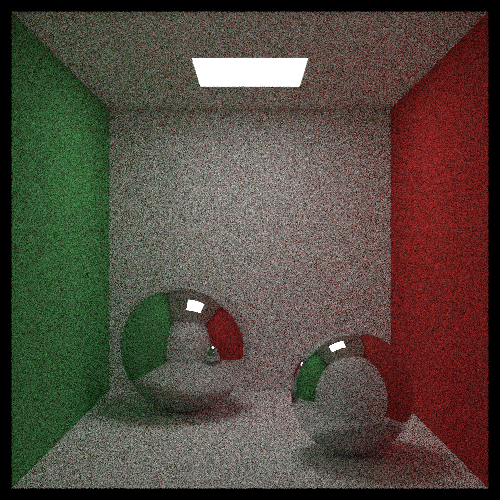
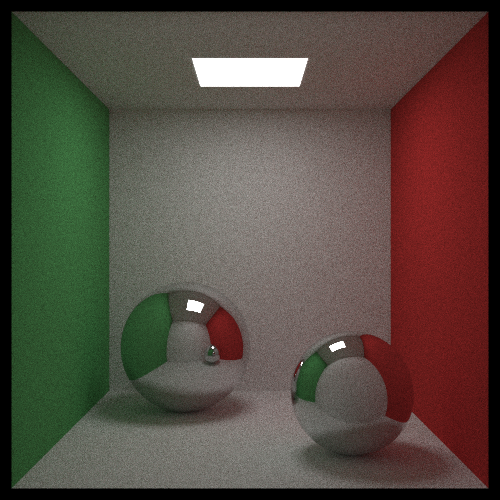
feat: add base Cornell Box template, refactor derived configs to share room geometry
- Extract getCornellBoxBaseRenderConfig() with walls/light/materials only
- Refactor getCornellBoxRenderConfig() and getCornellBoxMirrorSpheresRenderConfig()
  to call the base and spread-add their object-specific geometrics
- Add cornell-box-base template entry with thumbnail
- Update all template thumbnails to higher quality

Changed region(s): [[0.03, 0.0, 0.99, 0.99]]

diff --git a/ui/src/utils/render/templates.ts b/ui/src/utils/render/templates.ts
@@ -13,6 +13,14 @@ export type Template = {
 
 export const TEMPLATES: Template[] = [
   {
+    id: 'cornell-box-base',
+    name: 'Cornell Box — Empty',
+    description:
+      'Empty Cornell Box scene with colored walls and a ceiling light — ready to customize',
+    thumbnail: '/templates/cornell-box-empty.png',
+    config: getCornellBoxBaseRenderConfig(),
+  },
+  {
     id: 'cornell-box',
     name: 'Cornell Box',
     description: 'Classic Cornell Box scene with two boxes, colored walls, and a ceiling light',
@@ -20,17 +28,17 @@ export const TEMPLATES: Template[] = [
     config: getCornellBoxRenderConfig(),
   },
   {
-    id: 'empty',
-    name: 'Empty',
-    description: 'Blank canvas with default parameters — build your scene from scratch',
-    config: getEmptyRenderConfig(),
-  },
-  {
     id: 'cornell-box-mirror-spheres',
     name: 'Cornell Box — Mirror Spheres',
     description: 'Cornell Box scene with two mirror-reflective spheres instead of boxes',
     thumbnail: '/templates/cornell-box-mirror-spheres.png',
     config: getCornellBoxMirrorSpheresRenderConfig(),
+  },
+  {
+    id: 'empty',
+    name: 'Empty',
+    description: 'Blank canvas with default parameters — build your scene from scratch',
+    config: getEmptyRenderConfig(),
   },
 ];
 
@@ -76,9 +84,9 @@ export function getEmptyRenderConfig(): NormalizedRenderConfig {
   });
 }
 
-export function getCornellBoxRenderConfig(): NormalizedRenderConfig {
+export function getCornellBoxBaseRenderConfig(): NormalizedRenderConfig {
   return withDefaultResources({
-    name: 'Cornell Box',
+    name: 'Cornell Box — Empty',
     parameters: {
       image_dimensions: [500, 500],
       tile_dimensions: [1, 1],
@@ -93,8 +101,6 @@ export function getCornellBoxRenderConfig(): NormalizedRenderConfig {
     scenes: {
       'Cornell Box': {
         geometrics: [
-          'Far Left Box',
-          'Near Right Box',
           'Left Wall',
           'Right Wall',
           'Floor',
@@ -174,32 +180,6 @@ export function getCornellBoxRenderConfig(): NormalizedRenderConfig {
         v: [0.0, 0.0, 3.0],
         is_culled: false,
         material: 'White Light',
-      },
-      'Far Left Box': {
-        type: 'rotate_y',
-        geometric: 'Far Left Box - Unrotated',
-        degrees: 15.0,
-        around: [3.5, 0.0, -6.5],
-      },
-      'Far Left Box - Unrotated': {
-        type: 'box',
-        a: [2.0, 0.0, -5.0],
-        b: [5.0, 6.0, -8.0],
-        is_culled: false,
-        material: 'White',
-      },
-      'Near Right Box': {
-        type: 'rotate_y',
-        geometric: 'Near Right Box - Unrotated',
-        degrees: 342.0,
-        around: [6.5, 0.0, -3.5],
-      },
-      'Near Right Box - Unrotated': {
-        type: 'box',
-        a: [5.0, 0.0, -2.0],
-        b: [8.0, 3.0, -5.0],
-        is_culled: false,
-        material: 'White',
       },
     },
     materials: {
@@ -249,105 +229,66 @@ export function getCornellBoxRenderConfig(): NormalizedRenderConfig {
   });
 }
 
-export function getCornellBoxMirrorSpheresRenderConfig(): NormalizedRenderConfig {
-  return withDefaultResources({
-    name: 'Cornell Box — Mirror Spheres',
-    parameters: {
-      image_dimensions: [500, 500],
-      tile_dimensions: [1, 1],
-      gamma_correction: 2.0,
-      samples_per_checkpoint: 10,
-      total_checkpoints: 100,
-      saved_checkpoint_limit: 1,
-      max_bounces: 50,
-      use_scaling_truncation: true,
-    },
-    active_scene: 'Cornell Box',
+export function getCornellBoxRenderConfig(): NormalizedRenderConfig {
+  const base = getCornellBoxBaseRenderConfig();
+  const scenes = base.scenes!;
+  return {
+    ...base,
+    name: 'Cornell Box',
     scenes: {
+      ...scenes,
       'Cornell Box': {
-        geometrics: [
-          'Far Left Sphere',
-          'Near Right Sphere',
-          'Left Wall',
-          'Right Wall',
-          'Floor',
-          'Ceiling',
-          'Ceiling Light',
-          'Far Wall',
-          'Near Wall',
-        ],
-        use_bvh: true,
-        camera: 'Camera 1',
-        background_color: [0.0, 0.0, 0.0],
-      },
-    },
-    cameras: {
-      'Camera 1': {
-        vertical_field_of_view_degrees: 40.0,
-        eye_location: [5.0, 5.0, 14.4144],
-        target_location: [5.0, 5.0, 0.0],
-        view_up: [0.0, 1.0, 0.0],
-        defocus_angle_degrees: 0.0,
-        focus_distance: 'eye_to_target',
+        ...scenes['Cornell Box'],
+        geometrics: ['Far Left Box', 'Near Right Box', ...scenes['Cornell Box'].geometrics],
       },
     },
     geometrics: {
-      'Left Wall': {
-        type: 'parallelogram',
-        lower_left: [0.0, 0.0, 0.0],
-        u: [0.0, 0.0, -10.0],
-        v: [0.0, 10.0, 0.0],
-        is_culled: false,
-        material: 'Green',
+      ...base.geometrics,
+      'Far Left Box': {
+        type: 'rotate_y',
+        geometric: 'Far Left Box - Unrotated',
+        degrees: 15.0,
+        around: [3.5, 0.0, -6.5],
       },
-      'Right Wall': {
-        type: 'parallelogram',
-        lower_left: [10.0, 0.0, -10.0],
-        u: [0.0, 0.0, 10.0],
-        v: [0.0, 10.0, 0.0],
-        is_culled: false,
-        material: 'Red',
-      },
-      Floor: {
-        type: 'parallelogram',
-        lower_left: [0.0, 0.0, 0.0],
-        u: [10.0, 0.0, 0.0],
-        v: [0.0, 0.0, -10.0],
+      'Far Left Box - Unrotated': {
+        type: 'box',
+        a: [2.0, 0.0, -5.0],
+        b: [5.0, 6.0, -8.0],
         is_culled: false,
         material: 'White',
       },
-      Ceiling: {
-        type: 'parallelogram',
-        lower_left: [0.0, 10.0, -10.0],
-        u: [10.0, 0.0, 0.0],
-        v: [0.0, 0.0, 10.0],
+      'Near Right Box': {
+        type: 'rotate_y',
+        geometric: 'Near Right Box - Unrotated',
+        degrees: 342.0,
+        around: [6.5, 0.0, -3.5],
+      },
+      'Near Right Box - Unrotated': {
+        type: 'box',
+        a: [5.0, 0.0, -2.0],
+        b: [8.0, 3.0, -5.0],
         is_culled: false,
         material: 'White',
       },
-      'Far Wall': {
-        type: 'parallelogram',
-        lower_left: [0.0, 0.0, -10.0],
-        u: [10.0, 0.0, 0.0],
-        v: [0.0, 10.0, 0.0],
-        is_culled: false,
-        material: 'White',
+    },
+  };
+}
+
+export function getCornellBoxMirrorSpheresRenderConfig(): NormalizedRenderConfig {
+  const base = getCornellBoxBaseRenderConfig();
+  const scenes = base.scenes!;
+  return {
+    ...base,
+    name: 'Cornell Box — Mirror Spheres',
+    scenes: {
+      ...scenes,
+      'Cornell Box': {
+        ...scenes['Cornell Box'],
+        geometrics: ['Far Left Sphere', 'Near Right Sphere', ...scenes['Cornell Box'].geometrics],
       },
-      'Near Wall': {
-        type: 'parallelogram',
-        lower_left: [10.0, 0.0, 0.0],
-        u: [-10.0, 0.0, 0.0],
-        v: [0.0, 10.0, 0.0],
-        is_culled: true,
-        material: 'White',
-      },
-      'Ceiling Light': {
-        type: 'parallelogram',
-        lower_left: [3.5, 9.99, -6.5],
-        u: [3.0, 0.0, 0.0],
-        v: [0.0, 0.0, 3.0],
-        is_culled: false,
-        material: 'White Light',
-      },
+    },
+    geometrics: {
+      ...base.geometrics,
       'Far Left Sphere': {
         type: 'sphere',
         center: [3.0, 2.0, -7.0],
@@ -362,26 +303,7 @@ export function getCornellBoxMirrorSpheresRenderConfig(): NormalizedRenderConfig
       },
     },
     materials: {
-      White: {
-        type: 'lambertian',
-        reflectance_texture: 'White',
-        emittance_texture: 'Black',
-      },
-      'White Light': {
-        type: 'lambertian',
-        reflectance_texture: 'Black',
-        emittance_texture: 'White Light',
-      },
-      Red: {
-        type: 'lambertian',
-        reflectance_texture: 'Red',
-        emittance_texture: 'Black',
-      },
-      Green: {
-        type: 'lambertian',
-        reflectance_texture: 'Green',
-        emittance_texture: 'Black',
-      },
+      ...base.materials,
       Mirror: {
         type: 'specular',
         reflectance_texture: 'White',
@@ -389,29 +311,7 @@ export function getCornellBoxMirrorSpheresRenderConfig(): NormalizedRenderConfig
         roughness: 0,
       },
     },
-    textures: {
-      Black: {
-        type: 'color',
-        color: [0.0, 0.0, 0.0],
-      },
-      White: {
-        type: 'color',
-        color: [0.73, 0.73, 0.73],
-      },
-      'White Light': {
-        type: 'color',
-        color: [7.0, 7.0, 7.0],
-      },
-      Red: {
-        type: 'color',
-        color: [0.65, 0.05, 0.05],
-      },
-      Green: {
-        type: 'color',
-        color: [0.12, 0.45, 0.15],
-      },
-    },
-  });
+  };
 }
 
 function withDefaultResources(config: NormalizedRenderConfig): NormalizedRenderConfig {